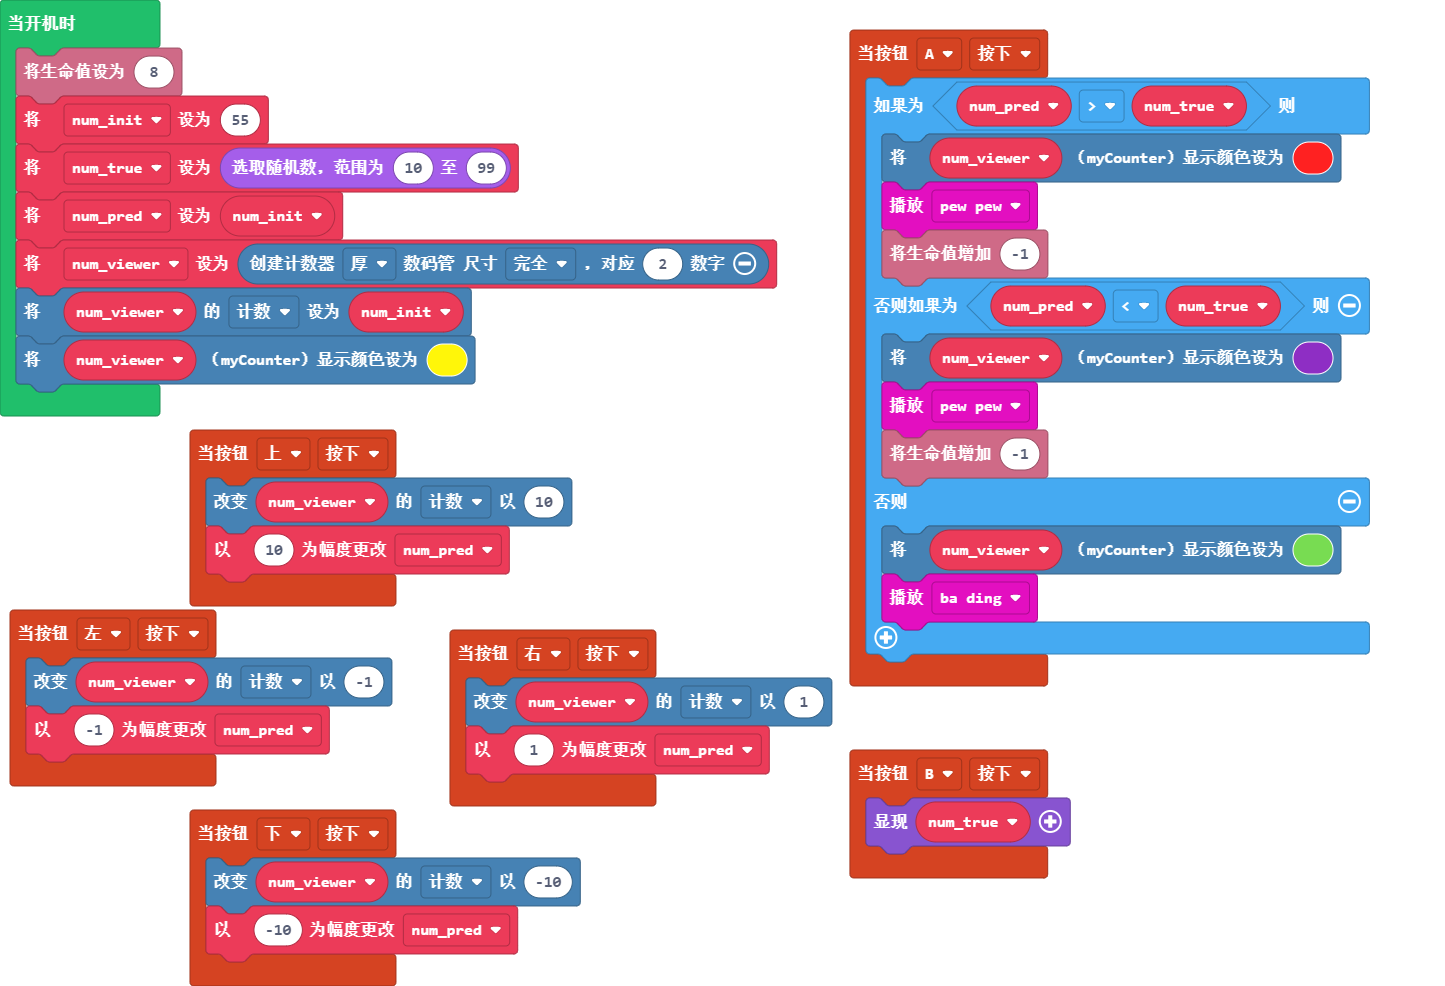
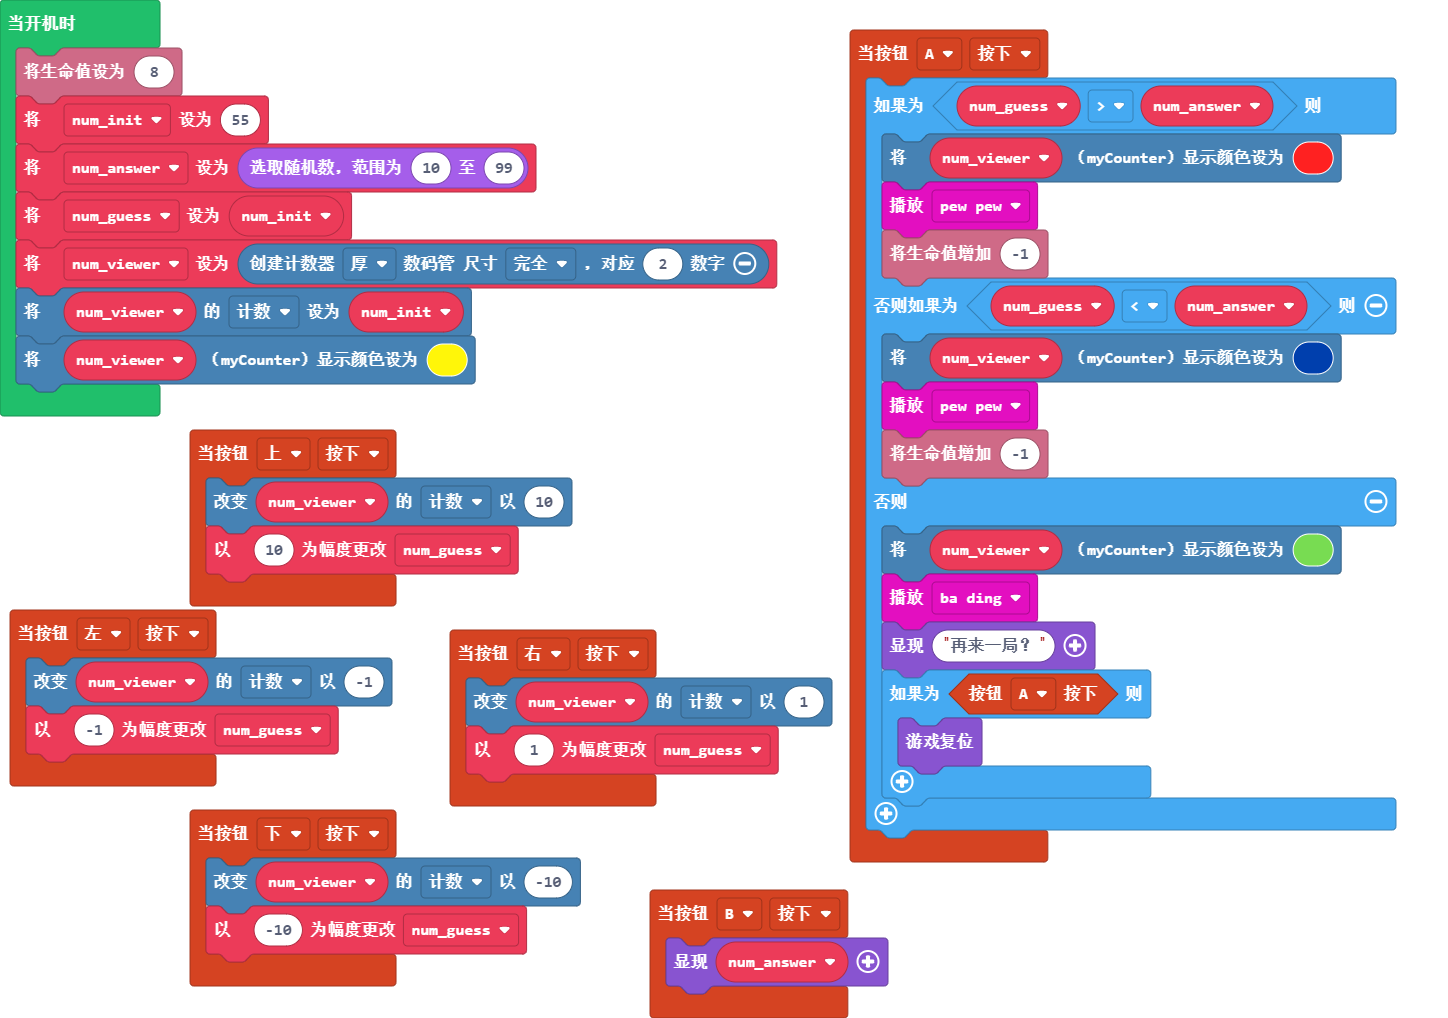
add 'one more game' after winning

diff --git a/main.ts b/main.ts
@@ -1,43 +1,47 @@
 controller.up.onEvent(ControllerButtonEvent.Pressed, function () {
     num_viewer.count += 10
-    num_pred += 10
+    num_guess += 10
 })
 controller.down.onEvent(ControllerButtonEvent.Pressed, function () {
     num_viewer.count += -10
-    num_pred += -10
+    num_guess += -10
 })
 controller.A.onEvent(ControllerButtonEvent.Pressed, function () {
-    if (num_pred > num_true) {
+    if (num_guess > num_answer) {
         num_viewer.setDigitColor(2)
         music.pewPew.play()
         info.changeLifeBy(-1)
-    } else if (num_pred < num_true) {
-        num_viewer.setDigitColor(10)
+    } else if (num_guess < num_answer) {
+        num_viewer.setDigitColor(8)
         music.pewPew.play()
         info.changeLifeBy(-1)
     } else {
         num_viewer.setDigitColor(7)
         music.baDing.play()
+        game.splash("再来一局？")
+        if (controller.A.isPressed()) {
+            game.reset()
+        }
     }
 })
 controller.right.onEvent(ControllerButtonEvent.Pressed, function () {
     num_viewer.count += 1
-    num_pred += 1
+    num_guess += 1
 })
 controller.B.onEvent(ControllerButtonEvent.Pressed, function () {
-    game.splash(num_true)
+    game.splash(num_answer)
 })
 controller.left.onEvent(ControllerButtonEvent.Pressed, function () {
     num_viewer.count += -1
-    num_pred += -1
+    num_guess += -1
 })
 let num_viewer: DigitCounter = null
-let num_pred = 0
-let num_true = 0
+let num_guess = 0
+let num_answer = 0
 info.setLife(8)
 let num_init = 55
-num_true = randint(10, 99)
-num_pred = num_init
+num_answer = randint(10, 99)
+num_guess = num_init
 num_viewer = sevenseg.createCounter(SegmentStyle.Thick, SegmentScale.Full, 2)
 num_viewer.count = num_init
 num_viewer.setDigitColor(5)

diff --git a/main.py b/main.py
@@ -1,52 +1,55 @@
 def on_up_pressed():
-    global num_pred
-    myCounter.count += 1
-    num_pred += 1
+    global num_guess
+    num_viewer.count += 10
+    num_guess += 10
 controller.up.on_event(ControllerButtonEvent.PRESSED, on_up_pressed)
 
 def on_down_pressed():
-    global num_pred
-    myCounter.count += -10
-    num_pred += -10
+    global num_guess
+    num_viewer.count += -10
+    num_guess += -10
 controller.down.on_event(ControllerButtonEvent.PRESSED, on_down_pressed)
 
 def on_a_pressed():
-    if num_pred > num_true:
-        myCounter.set_digit_color(2)
+    if num_guess > num_answer:
+        num_viewer.set_digit_color(2)
         music.pew_pew.play()
         info.change_life_by(-1)
-    elif num_pred < num_true:
-        myCounter.set_digit_color(10)
+    elif num_guess < num_answer:
+        num_viewer.set_digit_color(8)
         music.pew_pew.play()
         info.change_life_by(-1)
     else:
-        myCounter.set_digit_color(7)
+        num_viewer.set_digit_color(7)
         music.ba_ding.play()
+        game.splash("再来一局？")
+        if controller.A.is_pressed():
+            game.reset()
 controller.A.on_event(ControllerButtonEvent.PRESSED, on_a_pressed)
 
 def on_right_pressed():
-    global num_pred
-    myCounter.count += -1
-    num_pred += -1
+    global num_guess
+    num_viewer.count += 1
+    num_guess += 1
 controller.right.on_event(ControllerButtonEvent.PRESSED, on_right_pressed)
 
 def on_b_pressed():
-    game.splash(num_true)
+    game.splash(num_answer)
 controller.B.on_event(ControllerButtonEvent.PRESSED, on_b_pressed)
 
 def on_left_pressed():
-    global num_pred
-    myCounter.count += 10
-    num_pred += 10
+    global num_guess
+    num_viewer.count += -1
+    num_guess += -1
 controller.left.on_event(ControllerButtonEvent.PRESSED, on_left_pressed)
 
-myCounter: DigitCounter = None
-num_pred = 0
-num_true = 0
+num_viewer: DigitCounter = None
+num_guess = 0
+num_answer = 0
 info.set_life(8)
 num_init = 55
-num_true = randint(10, 99)
-num_pred = num_init
-myCounter = sevenseg.create_counter(SegmentStyle.THICK, SegmentScale.FULL, 2)
-myCounter.count = num_init
-myCounter.set_digit_color(5)
+num_answer = randint(10, 99)
+num_guess = num_init
+num_viewer = sevenseg.create_counter(SegmentStyle.THICK, SegmentScale.FULL, 2)
+num_viewer.count = num_init
+num_viewer.set_digit_color(5)
